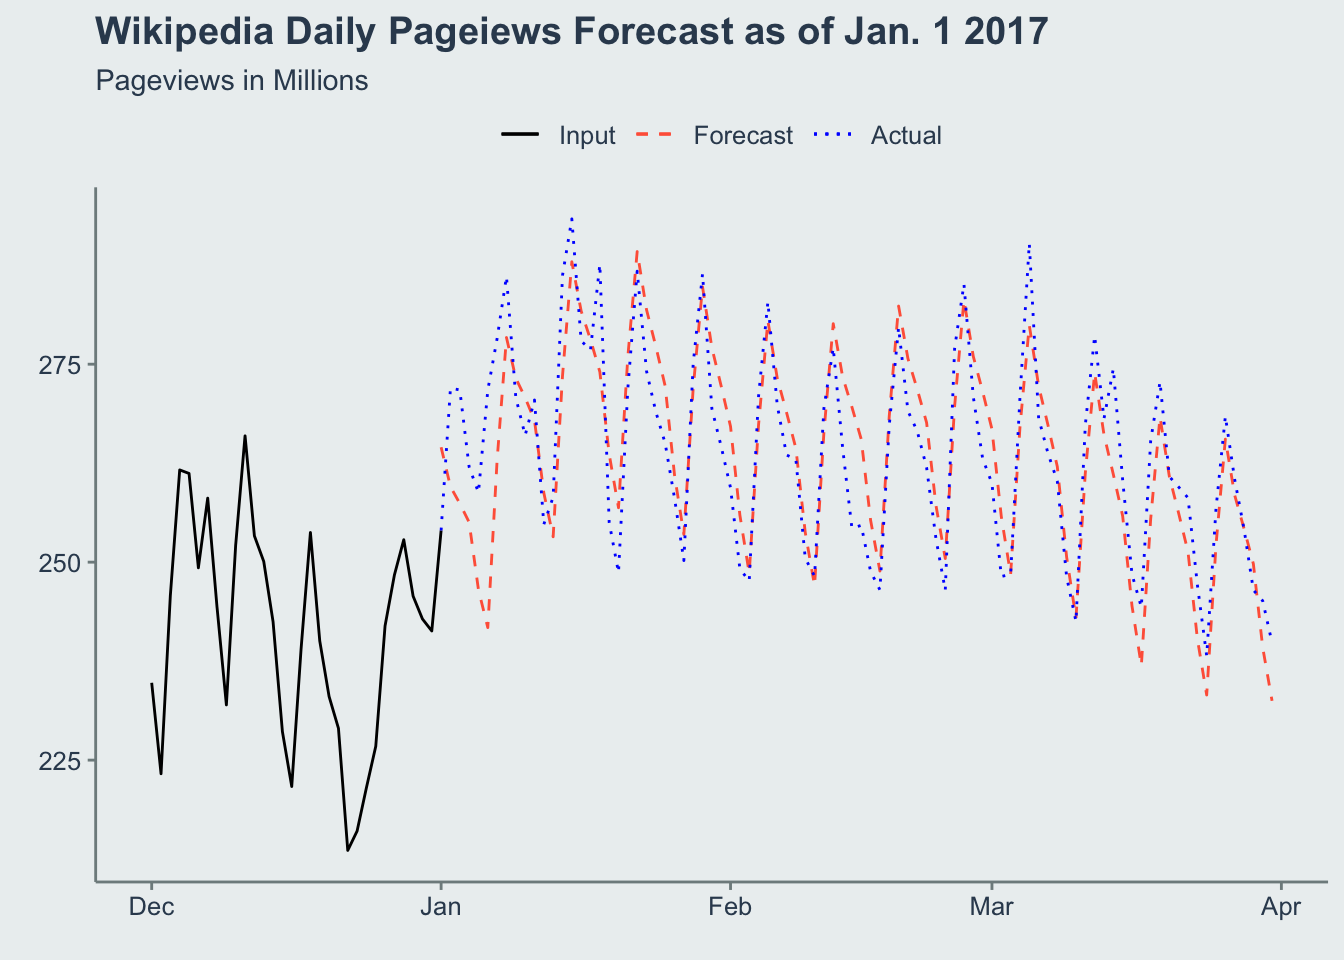
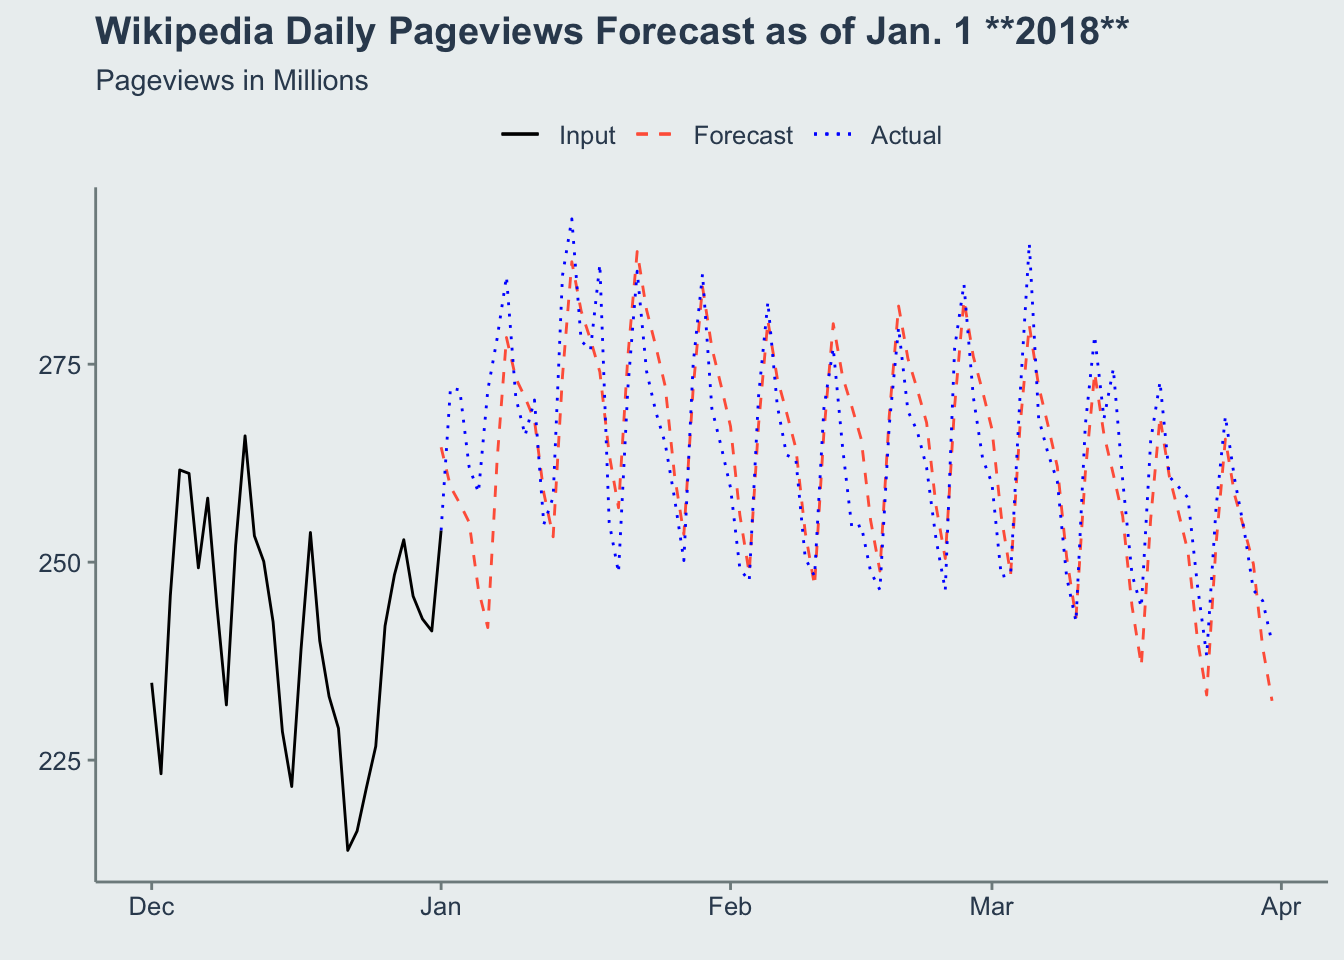
Typo

Changed region(s): [[0.3438, 0.0, 0.8438, 0.0625]]

diff --git a/content/post/2018-10-07-visualizing-prophet-changepoint-prior-scale.html b/content/post/2018-10-07-visualizing-prophet-changepoint-prior-scale.html
@@ -314,7 +314,7 @@ ggplot(
     ) +
   scale_color_manual(&quot;&quot;, values=c(&quot;Input&quot;=&quot;black&quot;, &quot;Forecast&quot;=&quot;tomato&quot;, &quot;Actual&quot; = &quot;blue&quot;), guide = guide_legend(reverse=TRUE)) +
   scale_linetype_manual(&quot;&quot;, values=c(&quot;Input&quot;=1, &quot;Forecast&quot;=2, &quot;Actual&quot; = 3), guide = guide_legend(reverse=TRUE)) +
-  labs(title=&quot;Wikipedia Daily Pageiews Forecast as of Jan. 1 2017&quot;, subtitle=&#39;Pageviews in Millions&#39;,x = element_blank(), y=element_blank()) +
+  labs(title=&quot;Wikipedia Daily Pageviews Forecast as of Jan. 1 **2018**&quot;, subtitle=&#39;Pageviews in Millions&#39;,x = element_blank(), y=element_blank()) +
   theme(legend.position=&#39;top&#39;)</code></pre>
 <p><img src="/post/2018-10-07-visualizing-prophet-changepoint-prior-scale_files/figure-html/unnamed-chunk-21-1.png" width="672" style="display: block; margin: auto;" /></p>
 <p>You can see this <strong>appears</strong> to be more accurate. This would support the case that <code>Prophet</code> performs better now that it had more data to train on (a full year more!).</p>

diff --git a/public/2018/12/22/visualizing-prophet-with-gganimate/index.html b/public/2018/12/22/visualizing-prophet-with-gganimate/index.html
@@ -378,7 +378,7 @@ ggplot(
     ) +
   scale_color_manual(&quot;&quot;, values=c(&quot;Input&quot;=&quot;black&quot;, &quot;Forecast&quot;=&quot;tomato&quot;, &quot;Actual&quot; = &quot;blue&quot;), guide = guide_legend(reverse=TRUE)) +
   scale_linetype_manual(&quot;&quot;, values=c(&quot;Input&quot;=1, &quot;Forecast&quot;=2, &quot;Actual&quot; = 3), guide = guide_legend(reverse=TRUE)) +
-  labs(title=&quot;Wikipedia Daily Pageiews Forecast as of Jan. 1 2017&quot;, subtitle=&#39;Pageviews in Millions&#39;,x = element_blank(), y=element_blank()) +
+  labs(title=&quot;Wikipedia Daily Pageviews Forecast as of Jan. 1 **2018**&quot;, subtitle=&#39;Pageviews in Millions&#39;,x = element_blank(), y=element_blank()) +
   theme(legend.position=&#39;top&#39;)</code></pre>
 <p><img src="/post/2018-10-07-visualizing-prophet-changepoint-prior-scale_files/figure-html/unnamed-chunk-21-1.png" width="672" style="display: block; margin: auto;" /></p>
 <p>You can see this <strong>appears</strong> to be more accurate. This would support the case that <code>Prophet</code> performs better now that it had more data to train on (a full year more!).</p>

diff --git a/public/404.html b/public/404.html
@@ -105,14 +105,14 @@
     
         
         <li>
-            <a href="/tags/data-mutation/">Data Mutation<aside class="dates">Dec 7</aside></a>
+            <a href="/categories/data-mutation/">Data Mutation<aside class="dates">Dec 7</aside></a>
         </li>
         
    
     
         
         <li>
-            <a href="/categories/data-mutation/">Data Mutation<aside class="dates">Dec 7</aside></a>
+            <a href="/tags/data-mutation/">Data Mutation<aside class="dates">Dec 7</aside></a>
         </li>
         
    
